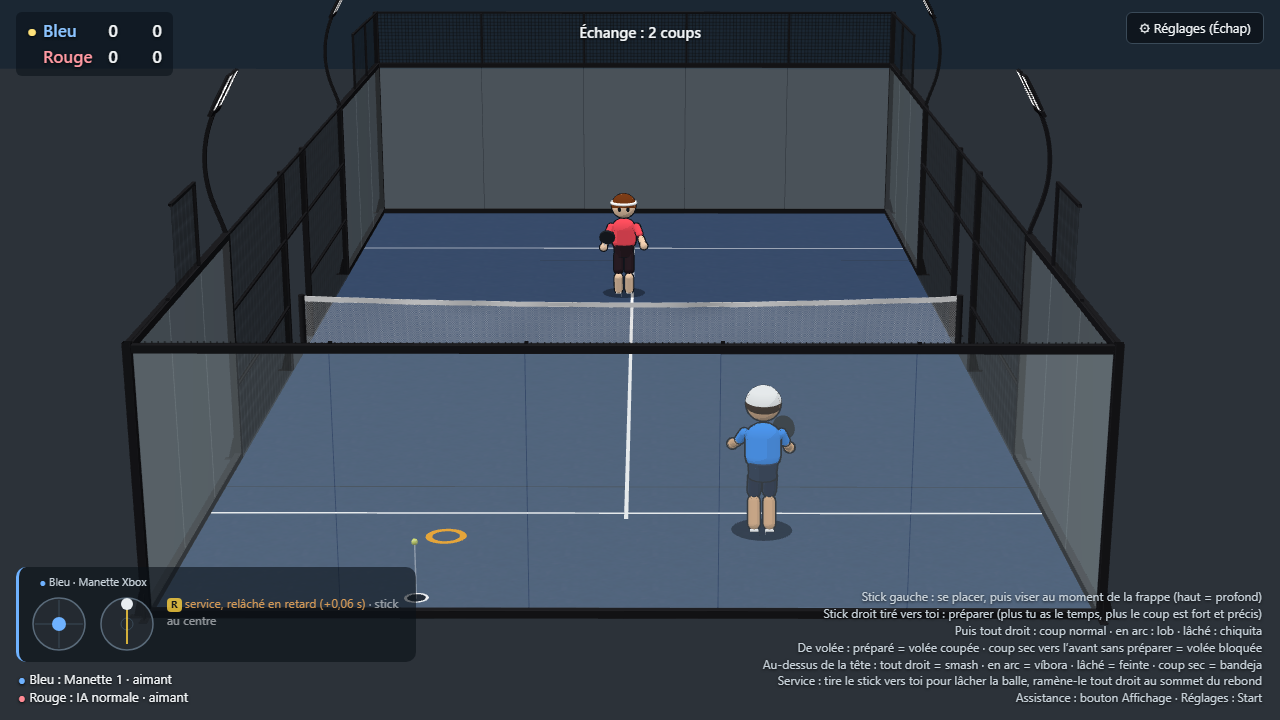
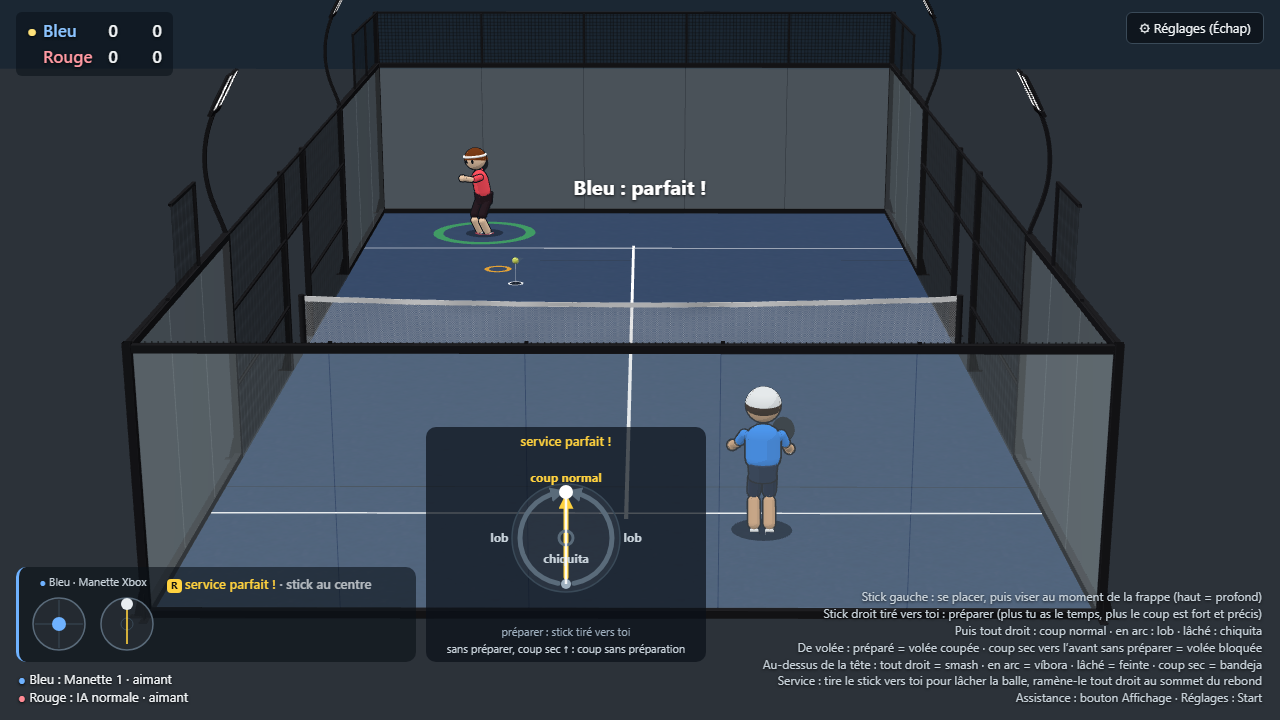
E1 : préparation au sol quand la balle n'est pas haute, coup droit et revers refaits
Au stick, la commande est toujours celle d'un coup haut ; le rendu suit
maintenant la règle de hauteur de la simulation (plansHighShot). Coup droit et
revers décomposés comme un entraîneur : jambes fléchies, préparation courte,
épaules et hanches tournées, contact bas devant, fin par-dessus l'épaule.

diff --git a/src/render/pose.ts b/src/render/pose.ts
@@ -7,6 +7,9 @@
  * Les directions des bras et de la raquette sont données dans le repère du buste, après sa torsion.
  */
 
+import type { Duel, DuelPlayer, Engagement } from '../sim/duel';
+import { bandejaHeight } from '../sim/shots';
+
 export type V3 = readonly [number, number, number];
 
 /** Famille du geste : coup droit, revers, au-dessus de la tête, service à la cuillère. */
@@ -19,8 +22,10 @@ export interface Pose {
   bob: number;
   /** Rotation du corps entier par rapport à la direction du filet (rad, + vers la gauche du joueur). */
   bodyYaw: number;
-  /** Torsion du buste sur le bassin (rad) : négative = épaule droite en arrière (coup droit armé). */
+  /** Rotation des épaules (rad) : négative = épaule droite en arrière (coup droit armé). */
   twist: number;
+  /** Part de cette rotation prise par les hanches (rad) ; le buste fait le reste. */
+  hipTwist: number;
   /** Inclinaison du buste vers l'avant (rad). */
   lean: number;
   /** Direction épaule → coude, bras droit (raquette) et bras gauche. */
@@ -60,21 +65,24 @@ function key(k: Omit<Key, 'face' | 'elbowR'> & { face?: V3; elbowR?: number }): 
 }
 
 /** Entre deux points : en attente dans l'échange, raquette devant soi, genoux fléchis. */
-const READY = key({ twist: 0, lean: 0.14, crouch: 0.07, armR: [-0.3, -0.7, 0.6], armL: [0.3, -0.6, 0.7], elbowR: 0.5, racket: [0.25, 0.85, 0.4] });
+const READY = key({ twist: 0, lean: 0.14, crouch: 0.09, armR: [-0.3, -0.7, 0.6], armL: [0.3, -0.6, 0.7], elbowR: 0.5, racket: [0.25, 0.85, 0.4] });
 /** Hors de l'échange (pause entre les points, service adverse pas encore lâché). */
 const REST = key({ twist: 0, lean: 0.03, crouch: 0, armR: [-0.2, -0.95, 0.15], armL: [0.2, -0.97, 0.05], elbowR: 0.2, racket: [-0.1, -0.5, 0.85], face: [-1, 0, 0] });
 
 /** Pour chaque famille : armé (préparation pleine), image d'impact, fin du geste. */
 const SWINGS: Record<SwingFamily, { prep: Key; impact: Key; follow: Key }> = {
+  // Coup droit et revers d'après la décomposition d'un entraîneur (images de Xavier) : jambes fléchies,
+  // préparation courte tête de raquette en haut, épaules et hanches tournées, main libre qui vise (contrôle),
+  // contact bas devant soi, fin du geste par-dessus l'épaule opposée.
   fore: {
-    prep: key({ twist: -0.95, lean: 0.18, crouch: 0.12, armR: [-0.75, -0.35, -0.2], armL: [0.45, 0, 0.9], racket: [-0.2, 0.55, -0.8], face: [-1, 0, 0] }),
-    impact: key({ twist: -0.15, lean: 0.16, crouch: 0.1, armR: [-0.85, -0.3, 0.4], armL: [0.6, -0.5, 0.5], elbowR: 0.05, racket: [-0.75, 0.1, 0.65] }),
-    follow: key({ twist: 0.75, lean: 0.12, crouch: 0.06, armR: [0.1, 0.15, 1], armL: [0.2, -0.6, 0.5], elbowR: 0.6, racket: [0.7, 0.65, -0.2], face: [0, 0, -1] }),
+    prep: key({ twist: -1.2, lean: 0.2, crouch: 0.14, armR: [-0.75, -0.1, -0.65], armL: [0.55, 0.1, 0.85], elbowR: 1.0, racket: [-0.15, 0.85, -0.5], face: [-1, 0, 0] }),
+    impact: key({ twist: -0.15, lean: 0.35, crouch: 0.17, armR: [-0.6, -0.65, 0.45], armL: [0.75, -0.2, 0], elbowR: 0.2, racket: [-0.75, -0.15, 0.65] }),
+    follow: key({ twist: 0.95, lean: 0.15, crouch: 0.12, armR: [0.4, 0.55, 0.75], armL: [0.5, -0.6, 0.4], elbowR: 1.3, racket: [0.35, 0.35, -0.85], face: [1, 0, 0] }),
   },
   back: {
-    prep: key({ twist: 1.0, lean: 0.18, crouch: 0.12, armR: [0.55, -0.45, 0.2], armL: [0.2, -0.4, 0.5], elbowR: 0.4, racket: [0.5, 0.55, -0.65], face: [1, 0, 0] }),
-    impact: key({ twist: 0.15, lean: 0.16, crouch: 0.1, armR: [0.5, -0.35, 0.8], armL: [0.6, -0.6, -0.3], elbowR: 0.05, racket: [0.8, 0.1, 0.6] }),
-    follow: key({ twist: -0.6, lean: 0.1, crouch: 0.06, armR: [-0.4, 0.35, 0.85], armL: [0.7, -0.5, -0.3], elbowR: 0.3, racket: [-0.6, 0.75, 0.2], face: [0, 0, -1] }),
+    prep: key({ twist: 1.2, lean: 0.2, crouch: 0.14, armR: [0.65, -0.35, -0.25], armL: [0.45, -0.25, 0.3], elbowR: 0.6, racket: [0.25, 0.8, -0.55], face: [1, 0, 0] }),
+    impact: key({ twist: 0.2, lean: 0.35, crouch: 0.17, armR: [0.55, -0.6, 0.55], armL: [0.55, -0.45, -0.7], elbowR: 0.05, racket: [0.8, -0.15, 0.55] }),
+    follow: key({ twist: -0.6, lean: 0.15, crouch: 0.1, armR: [-0.6, 0.15, 0.75], armL: [0.6, -0.5, -0.6], elbowR: 0.3, racket: [-0.55, 0.75, 0.1], face: [-1, 0, 0] }),
   },
   overhead: {
     prep: key({ twist: -0.7, lean: -0.12, crouch: 0.04, armR: [-0.5, 0.8, -0.3], armL: [0.35, 0.9, 0.3], elbowR: 0.9, racket: [0.1, -0.3, -0.95], face: [-1, 0, 0] }),
@@ -93,6 +101,8 @@ export const FOLLOW_TIME = 0.28;
 export const RECOVER_TIME = 0.3;
 /** Préparation : la raquette est à moitié armée en ~0,12 s, entièrement à 0,6 s (comme le bonus de vitesse, §13). */
 const PREP_FULL = 0.6;
+/** Part de la rotation des épaules prise par les hanches. */
+const HIP_SHARE = 0.45;
 /** Longueur d'une foulée complète (deux pas, m) à pleine course, et vitesse de course de référence (m/s). */
 export const STRIDE = 1.7;
 const RUN_SPEED = 5;
@@ -210,6 +220,7 @@ export function computePose(input: PoseInput): Pose {
     bob: moving ? runBob : idleBob,
     bodyYaw: input.bodyYaw,
     twist: upper.twist,
+    hipTwist: upper.twist * HIP_SHARE,
     lean: upper.lean + run * 0.16 * Math.max(0, fwd),
     armR: upper.armR,
     armL: moving && !input.prep && !s ? mixDir(upper.armL, [0.3, -0.75, -Math.sin(input.stride) * 0.6], run) : upper.armL,
@@ -219,4 +230,19 @@ export function computePose(input: PoseInput): Pose {
     legR: leg(1),
     legL: leg(-1),
   };
+}
+
+/**
+ * La préparation en cours vise-t-elle un coup au-dessus de la tête ? Même règle que la simulation : la hauteur du
+ * point d'impact prévu face au seuil des coups hauts (`Duel.swingFloor` au stick, au moins les yeux après un
+ * rebond ; les épaules pour B aux boutons). Au stick, la commande est toujours celle d'un coup haut : seule la
+ * hauteur décide. Sans point prévu, coup au sol.
+ */
+export function plansHighShot(duel: Duel, player: DuelPlayer, engagement: Engagement): boolean {
+  const plan = engagement.plan;
+  if (!plan) return false;
+  const floor = duel.swingFloor(player.height);
+  // `swingFloor` infini : seuil `lob`, pas de coup haut sur cette balle, aux boutons non plus.
+  if (!engagement.swing) return engagement.kind === 'overhead' && floor !== Infinity && plan.contact.y >= duel.profile.rally.overheadLow;
+  return plan.contact.y >= (plan.volley ? floor : Math.max(floor, bandejaHeight(duel.profile, player.height) - 0.02));
 }

diff --git a/src/render/duelScene.ts b/src/render/duelScene.ts
@@ -7,7 +7,7 @@ import { lerp, type Vec3 } from '../sim/vec3';
 import { createCourt } from './court';
 import { CHARACTERS, createCharacter, type CharacterRig } from './character';
 import { loadModel, modelsEnabled } from './models';
-import { bodyYawTarget, computePose, STRIDE, swingSide, type SwingFamily } from './pose';
+import { bodyYawTarget, computePose, plansHighShot, STRIDE, swingSide, type SwingFamily } from './pose';
 
 export interface DuelView {
   render(alpha: number, frameTime: number): void;
@@ -56,8 +56,6 @@ const CAMERA_FOLLOW = 0.15;
 const CAMERA_SMOOTHING = 4;
 /** Lissage (1/s) de la rotation du corps quand il se tourne pour courir. */
 const BODY_TURN = 10;
-/** Hauteur des épaules d'un joueur de 1,80 m : au-dessus, le geste se prépare au-dessus de la tête. */
-const SHOULDERS = 1.45;
 
 /**
  * Côté caméra, tout ce qui dépasse la hauteur des vitres près du fond (grillage, montants) est
@@ -87,7 +85,7 @@ interface PlayerView {
   object: THREE.Group;
   /** Personnage cartoon et son état d'animation, propre au rendu. */
   rig: CharacterRig;
-  anim: { yaw: number; stride: number; side: 'fore' | 'back'; last: { x: number; z: number } | null };
+  anim: { yaw: number; stride: number; side: 'fore' | 'back'; high: boolean; last: { x: number; z: number } | null };
   /**
    * Anneau au sol, visible tant que le coup est préparé : il se resserre jusqu'au moment d'impact,
    * où il atteint la taille du joueur. C'est le repère pour relâcher (GAME_DESIGN.md §4).
@@ -168,7 +166,7 @@ function createPlayerView(color: number, index: number, height: number): PlayerV
   );
   standMarker.rotation.x = -Math.PI / 2;
   const bubble = createBubble();
-  const anim: PlayerView['anim'] = { yaw: 0, stride: 0, side: 'fore', last: null };
+  const anim: PlayerView['anim'] = { yaw: 0, stride: 0, side: 'fore', high: false, last: null };
   return { object, rig, anim, timingRing, timingMaterial, standMarker, color, bubble, bubbleKind: null };
 }
 
@@ -351,8 +349,8 @@ export function createDuelView(canvas: HTMLCanvasElement, duel: Duel): DuelView 
     } else if (engagement && engagement.releaseTick === null) {
       const target = engagement.plan?.contact ?? duel.ball?.pos ?? null;
       if (target) view.anim.side = swingSide(localX(target), view.anim.side);
-      const high = engagement.kind === 'overhead' || (engagement.plan !== null && engagement.plan.contact.y > SHOULDERS * scale);
-      prep = { family: high ? 'overhead' : view.anim.side, seconds: (now - engagement.pressTick) * SIM_DT };
+      view.anim.high = plansHighShot(duel, player, engagement);
+      prep = { family: view.anim.high ? 'overhead' : view.anim.side, seconds: (now - engagement.pressTick) * SIM_DT };
     }
 
     // Dernière frappe, ou coup dans le vide.
@@ -363,7 +361,10 @@ export function createDuelView(canvas: HTMLCanvasElement, duel: Duel): DuelView 
       const hit = whiffed ? null : player.lastHit;
       const kind = whiffed ? player.lastWhiffKind : hit?.kind;
       if (hit && !hit.serve && kind !== 'overhead') view.anim.side = swingSide(localX(hit.contact), view.anim.side);
-      const family: SwingFamily = hit?.serve ? 'serve' : kind === 'overhead' ? 'overhead' : view.anim.side;
+      // Le coup joué dit la famille ; un coup dans le vide garde celle de sa préparation (au stick, la commande
+      // est toujours celle d'un coup haut : c'est la hauteur de la balle qui décide).
+      const high = hit ? kind === 'overhead' : view.anim.high;
+      const family: SwingFamily = hit?.serve ? 'serve' : high ? 'overhead' : view.anim.side;
       strike = { family, seconds: (now - strikeTick) * SIM_DT };
     }
 

diff --git a/tests/render/pose.test.ts b/tests/render/pose.test.ts
@@ -1,5 +1,8 @@
 import { describe, expect, it } from 'vitest';
-import { bodyYawTarget, computePose, FOLLOW_TIME, prepAmount, RECOVER_TIME, swingSide, type PoseInput, type V3 } from '../../src/render/pose';
+import { bodyYawTarget, computePose, FOLLOW_TIME, plansHighShot, prepAmount, RECOVER_TIME, swingSide, type PoseInput, type V3 } from '../../src/render/pose';
+import { NEUTRAL_ARCADE } from '../../src/sim/commands';
+import { Duel, type HighFloor } from '../../src/sim/duel';
+import { vec3 } from '../../src/sim/vec3';
 
 const still: PoseInput = { inPlay: true, prep: null, strike: null, speed: 0, heading: 0, bodyYaw: 0, stride: 0, time: 0 };
 const length = (v: V3): number => Math.hypot(v[0], v[1], v[2]);
@@ -77,5 +80,37 @@ describe('poses du personnage', () => {
     expect(bodyYawTarget(6, Math.PI / 2, true)).toBe(0);
     // En reculant, il ne tourne pas le dos au filet.
     expect(Math.abs(bodyYawTarget(6, Math.PI, false))).toBeLessThan(0.1);
+  });
+});
+
+describe('préparation au stick : geste au sol ou au-dessus de la tête, comme la simulation le jugera', () => {
+  /** Bleu prépare au stick (la commande est toujours celle d'un coup haut) ; le geste dessiné est-il un coup haut ? */
+  function prepared(setup: (duel: Duel) => void, floor: HighFloor = 'epaules'): boolean {
+    const duel = new Duel(null);
+    duel.highFloor = floor;
+    setup(duel);
+    for (let i = 0; i < 3; i++) duel.step([{ stick: { forward: 0, right: 0 }, shot: 'overhead', swing: { prepared: true } }, NEUTRAL_ARCADE]);
+    const me = duel.players[0];
+    expect(me.engagement?.plan).toBeTruthy();
+    return plansHighShot(duel, me, me.engagement!);
+  }
+  const defence = (duel: Duel): void =>
+    duel.playSituation(1, [vec3(0, 0, -9), vec3(0, 0, 8.5)], { kind: 'normal', contact: vec3(0, 0.9, 8.5), target: vec3(1.4, 0.03, -7) });
+  const lob = (duel: Duel): void =>
+    duel.playSituation(1, [vec3(0.3, 0, -3.5), vec3(0, 0, 8.6)], { kind: 'lob', contact: vec3(0.3, 0.9, 8.6), target: vec3(0.6, 0.03, -6.2) });
+  const floaty = (duel: Duel): void =>
+    duel.playSituation(1, [vec3(0, 0, -2.5), vec3(0, 0, 8.5)], { kind: 'slice', contact: vec3(0, 1, 8.5), target: vec3(0.8, 0.03, -5), error: 0.5 });
+
+  it('en défense derrière la ligne, sur une balle qui n’est pas un lob : coup droit ou revers, pas un smash', () => {
+    expect(prepared(defence)).toBe(false);
+  });
+
+  it('au filet sur un lob : préparation au-dessus de la tête', () => {
+    expect(prepared(lob)).toBe(true);
+  });
+
+  it('seuil « lob » : la balle flottante haute se prépare comme une volée', () => {
+    expect(prepared(floaty, 'epaules')).toBe(true);
+    expect(prepared(floaty, 'lob')).toBe(false);
   });
 });

diff --git a/src/render/character.ts b/src/render/character.ts
@@ -236,7 +236,9 @@ export function createCharacter(look: CharacterLook, jersey: number, height = PL
     apply(pose: Pose): void {
       body.rotation.y = pose.bodyYaw;
       hips.position.y = HIP_Y - pose.crouch + pose.bob;
-      torso.rotation.set(pose.lean, pose.twist, 0, 'YXZ');
+      // Les hanches tournent avec les épaules (jambes comprises : les pieds pivotent), le buste fait le reste.
+      hips.rotation.y = pose.hipTwist;
+      torso.rotation.set(pose.lean, pose.twist - pose.hipTwist, 0, 'YXZ');
       // La tête compense la moitié de la torsion : le joueur regarde la balle.
       head.rotation.y = -pose.twist * 0.5;
 

diff --git a/STATUS.md b/STATUS.md
@@ -474,3 +474,20 @@ toute autre balle haute se joue de volée (ou au sol). **Option à l'essai, le d
 - IA normale contre IA normale, 2 × 15 min (graines 3 et 11), épaules → lob : coups hauts 40 → 16 par partie (dont ~1/3
   sur des balles qui n'étaient pas des lobs avant, 0 après), volées 80 → 95, coups par point inchangés (~6), coups dans
   le vide inchangés, por tres toujours possibles.
+
+### E1, retour de Xavier : la préparation en défense ressemblait à un smash (17/10/2026)
+
+Au stick, la commande est toujours celle d'un coup haut (`HELD`) : c'est la hauteur de la balle qui décide. Le rendu
+lisait la commande et armait la raquette au-dessus de la tête même pour un coup droit de fond de court.
+443 tests OK (dont 3 de plus dans `tests/render/pose.test.ts`), typecheck OK, 8 tests navigateur (duel, double, stick,
+tutoriel) OK. **À rejouer à la manette.**
+
+- `plansHighShot` (`src/render/pose.ts`) reprend la règle de la simulation : hauteur du point d'impact prévu face à
+  `Duel.swingFloor` (au moins les yeux après un rebond ; épaules pour B aux boutons ; jamais en seuil `lob` hors lob).
+  Un coup dans le vide garde la famille de sa préparation.
+- Coup droit et revers refaits d'après la décomposition envoyée par Xavier (fléchir, préparation courte, rotation des
+  épaules et des hanches, contrôle) : jambes fléchies, raquette armée à hauteur d'épaule tête en haut, main libre qui
+  vise, contact bas devant soi, fin du geste par-dessus l'épaule opposée (raquette derrière la tête au coup droit). Les
+  hanches prennent 45 % de la rotation des épaules (`Pose.hipTwist`).
+- Planche des phases (préparation, impact, fin du geste, retour ; coup droit en haut, revers en bas) :
+  `screenshots/41-coup-droit-revers.png`, rendue en figeant la simulation et en déplaçant le pas de la frappe.
